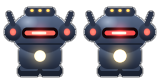
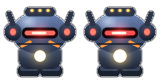
feat(style): Mega Man X-inspired music & art direction
- Music recomposed in the spirit of MMX stage themes: 158 BPM, two bouncy
  lead sections with a soaring answer, octave bass, kick/snare/hat groove,
  and one modern touch — dotted-eighth echo on the lead voice
- Hero redrawn in X spirit: blue helmet with crystal crest gem, visible
  expressive eye, white chest plate, brighter armor palette
- Enemy recolored as a glossy golden mech (Met-like) with big expressive
  eyes and shell rivets
- Boss hull in cool steel-blue with orange Maverick accent stripes
- Verified: assets regenerate, build clean, in-game smoke test 0 errors

diff --git a/src/audio.ts b/src/audio.ts
@@ -75,38 +75,113 @@ function noise(opt: { dur: number; vol?: number; freq?: number; delay?: number }
 }
 
 // --------------------------- Music (lookahead sequencer) ---------------------------
+// Stage theme in the spirit of Mega Man X (fast, hopping melodies, octave bass),
+// with one modern touch: a dotted-eighth delay on the lead voice.
 
 let musicTimer: ReturnType<typeof setInterval> | null = null
 let step = 0
 let nextTime = 0
-const BPM = 132
+const BPM = 158
 const STEP = 60 / BPM / 4
 
-// Am / F / C / G — 16 sixteenth-notes per 2 bars
-const BASS = [
-  110, 0, 110, 0, 110, 0, 164.81, 0,
-  87.31, 0, 87.31, 0, 130.81, 0, 130.81, 0,
-  130.81, 0, 130.81, 0, 196, 0, 130.81, 0,
-  98, 0, 98, 0, 146.83, 0, 98, 0,
+let leadBus: GainNode | null = null
+function getLeadBus(): GainNode | null {
+  const c = ctx
+  if (!c) return null
+  if (!leadBus) {
+    leadBus = c.createGain()
+    leadBus.gain.value = 1
+    leadBus.connect(master!)
+    // the modern touch: dotted-eighth echo on the lead
+    const delay = c.createDelay(1)
+    delay.delayTime.value = STEP * 3
+    const feedback = c.createGain()
+    feedback.gain.value = 0.26
+    const wet = c.createGain()
+    wet.gain.value = 0.22
+    leadBus.connect(delay)
+    delay.connect(feedback)
+    feedback.connect(delay)
+    delay.connect(wet)
+    wet.connect(musicBus!)
+  }
+  return leadBus
+}
+
+const N = {
+  A2: 110, C3: 130.81, D3: 146.83, E3: 164.81, F3: 174.61, G3: 196, A3: 220, B3: 246.94,
+  C4: 261.63, D4: 293.66, E4: 329.63, F4: 349.23, G4: 392, A4: 440, B4: 493.88,
+  C5: 523.25, D5: 587.33, E5: 659.25, F5: 698.46, G5: 783.99, A5: 880, B5: 987.77,
+  C6: 1046.5, D6: 1174.66, E6: 1318.51,
+}
+
+// Two 2-bar sections (32 sixteenths each): A = bouncy theme, B = soaring answer.
+const LEAD_A = [
+  N.E5, 0, N.G5, 0, N.A5, 0, N.G5, N.E5,
+  0, N.C5, 0, N.D5, N.E5, 0, N.D5, N.C5,
+  N.E5, 0, N.G5, 0, N.A5, 0, N.B5, N.C6,
+  0, N.B5, N.G5, N.A5, 0, N.E5, 0, 0,
 ]
-const LEAD = [
-  440, 0, 523.25, 0, 659.25, 0, 523.25, 659.25,
-  0, 0, 349.23, 0, 440, 0, 523.25, 0,
-  523.25, 0, 659.25, 0, 783.99, 0, 659.25, 523.25,
-  0, 0, 392, 0, 493.88, 0, 587.33, 0,
+const LEAD_A2 = [
+  N.E5, 0, N.G5, 0, N.A5, 0, N.G5, N.E5,
+  0, N.C5, 0, N.D5, N.E5, 0, N.G5, N.A5,
+  N.B5, 0, N.C6, 0, N.D6, 0, N.C6, N.B5,
+  0, N.A5, N.G5, N.A5, 0, N.E5, 0, 0,
+]
+const LEAD_B = [
+  N.F5, 0, N.A5, 0, N.C6, 0, N.A5, N.F5,
+  0, N.G5, 0, N.A5, N.B5, 0, N.C6, 0,
+  N.D6, 0, N.C6, 0, N.B5, 0, N.G5, 0,
+  N.A5, 0, N.G5, 0, N.E5, 0, N.C5, 0,
+]
+const LEAD_B2 = [
+  N.F5, 0, N.A5, 0, N.C6, 0, N.E6, N.D6,
+  0, N.C6, 0, N.B5, N.C6, 0, N.D6, 0,
+  N.E6, 0, N.D6, 0, N.C6, 0, N.B5, 0,
+  N.C6, 0, N.G5, 0, N.E5, 0, N.C5, 0,
+]
+const BASS_A = [
+  N.C3, 0, N.C4, 0, N.C3, 0, N.C4, N.C3,
+  0, N.C4, 0, N.C3, N.C4, 0, N.C3, 0,
+  N.A2, 0, N.A3, 0, N.A2, 0, N.E3, N.A2,
+  0, N.A3, 0, N.E3, N.A3, 0, N.E3, 0,
+]
+const BASS_B = [
+  N.F3, 0, N.F3, 0, N.F3, 0, N.C4, N.F3,
+  0, N.C4, 0, N.F3, N.C4, 0, N.F3, 0,
+  N.G3, 0, N.D4, 0, N.G3, 0, N.D4, N.G3,
+  0, N.D4, 0, N.G3, N.D4, 0, N.G3, 0,
+]
+const KICK = [
+  1, 0, 0, 0, 0, 0, 1, 0, 1, 0, 0, 0, 0, 0, 0, 0,
+  1, 0, 0, 0, 0, 0, 1, 0, 1, 0, 0, 1, 0, 0, 0, 0,
+]
+const SNARE = [
+  0, 0, 0, 0, 1, 0, 0, 0, 0, 0, 0, 0, 1, 0, 0, 1,
+  0, 0, 0, 0, 1, 0, 0, 0, 0, 0, 0, 0, 1, 0, 1, 0,
+]
+const HAT = [
+  1, 0, 1, 0, 1, 0, 1, 1, 1, 0, 1, 0, 1, 0, 1, 0,
+  1, 0, 1, 0, 1, 0, 1, 1, 1, 0, 1, 0, 1, 1, 1, 0,
 ]
 
 function schedule() {
   const c = ctx
   if (!c || !musicBus) return
+  const lead = getLeadBus()
+  const bar = Math.floor(step / 32) % 4
+  const i = step % 32
   while (nextTime < c.currentTime + 0.35) {
-    const i = step % 32
     const delay = Math.max(0, nextTime - c.currentTime)
-    const b = BASS[i]
-    if (b) tone({ f: b, dur: STEP * 1.6, type: 'triangle', vol: 0.5, delay, bus: musicBus })
-    const l = LEAD[i]
-    if (l) tone({ f: l, dur: STEP * 0.85, type: 'square', vol: 0.14, delay, bus: musicBus })
-    if (i % 4 === 2) noise({ dur: 0.03, vol: 0.1, freq: 6000, delay })
+    const leadPat = bar === 0 ? LEAD_A : bar === 1 ? LEAD_A2 : bar === 2 ? LEAD_B : LEAD_B2
+    const bassPat = bar < 2 ? BASS_A : BASS_B
+    const li = leadPat[i]
+    if (li) tone({ f: li, dur: STEP * 0.9, type: 'square', vol: 0.13, delay, bus: lead })
+    const b = bassPat[i]
+    if (b) tone({ f: b, dur: STEP * 1.5, type: 'triangle', vol: 0.5, delay, bus: musicBus })
+    if (KICK[i]) tone({ f: 150, to: 45, dur: 0.1, type: 'sine', vol: 0.75, delay, bus: musicBus })
+    if (SNARE[i]) noise({ dur: 0.09, vol: 0.3, freq: 2400, delay })
+    if (HAT[i]) noise({ dur: 0.03, vol: 0.12, freq: 7000, delay })
     nextTime += STEP
     step++
   }
